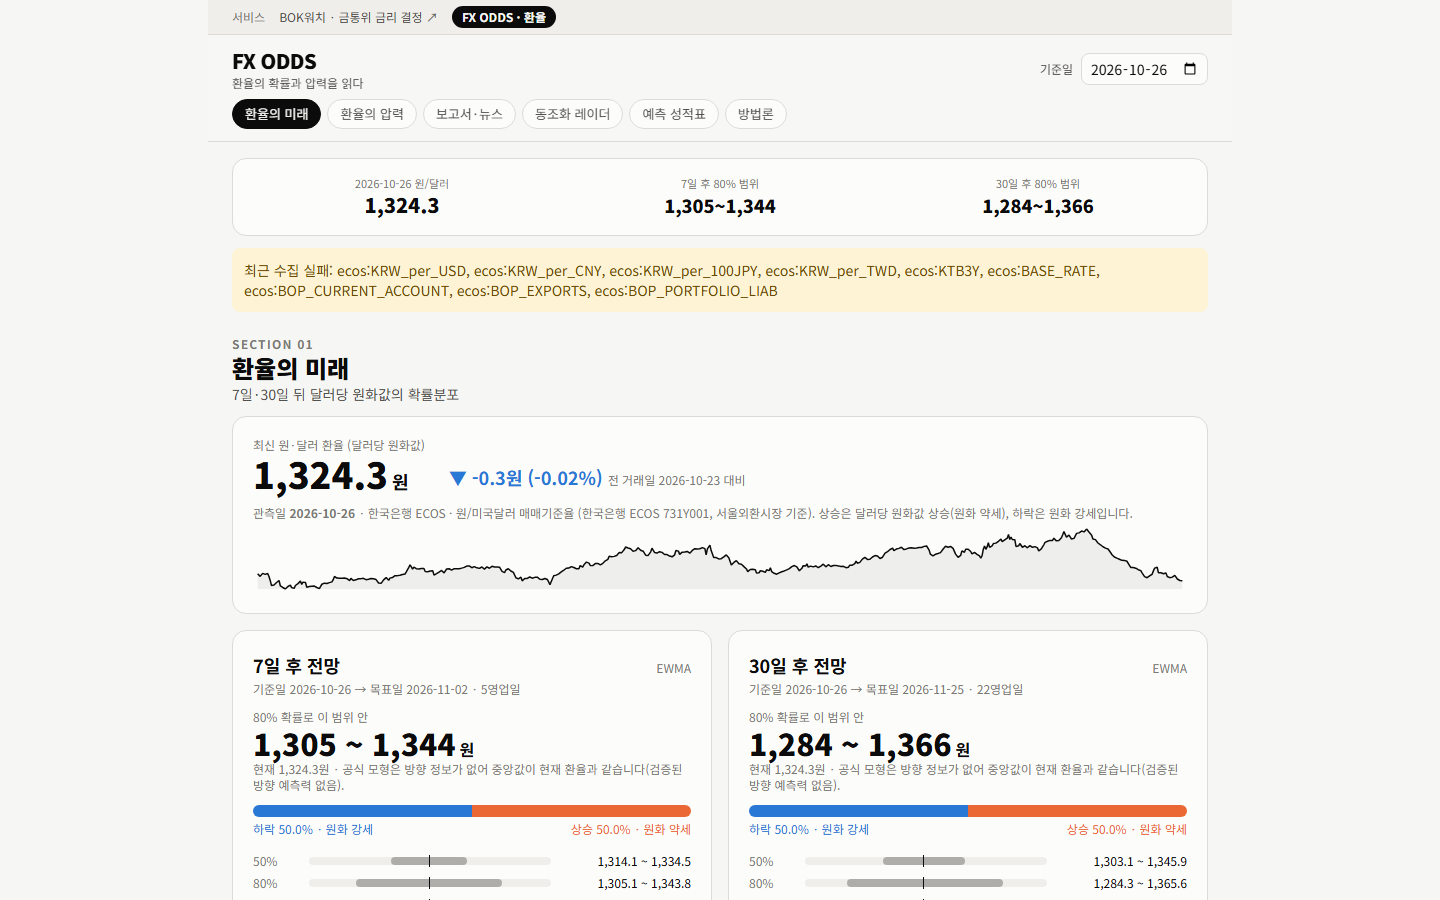
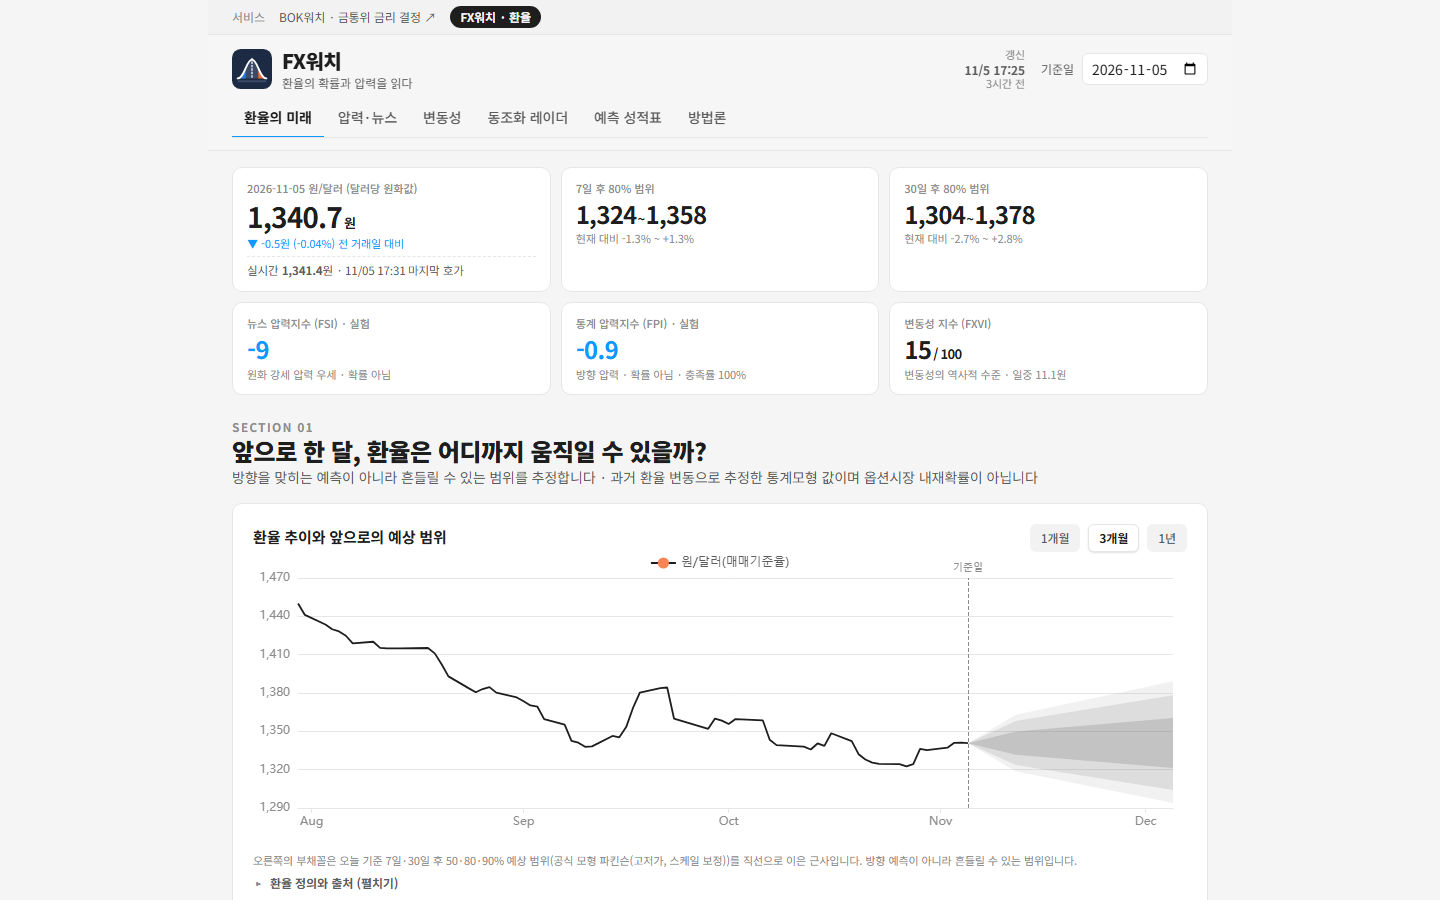
Rename FX ODDS to FX워치 and sync detail page with v0.3.0
Card, detail page, markdown, link previews and cross-links use the new
name; features updated (volatility index FXVI, news/statistical pressure
indices, 7-day EWMA / 30-day Parkinson official models); screenshot refreshed.

diff --git a/projects/fx-odds/index.html b/projects/fx-odds/index.html
@@ -3,18 +3,18 @@
 <head>
 <meta charset="utf-8">
 <meta name="viewport" content="width=device-width, initial-scale=1">
-<title>FX ODDS — databrew</title>
+<title>FX워치 — databrew</title>
 <meta name="description" content="원/달러 환율의 7일·30일 뒤 확률분포와 압력 요인을 보여 주는 환율 확률 모니터. 방향을 찍지 않고 불확실성의 범위를 보여 줍니다.">
 <link rel="canonical" href="https://raspos.github.io/databrew/projects/fx-odds/">
 <meta property="og:type" content="website">
 <meta property="og:site_name" content="databrew">
 <meta property="og:locale" content="ko_KR">
-<meta property="og:title" content="FX ODDS — databrew">
+<meta property="og:title" content="FX워치 — databrew">
 <meta property="og:description" content="원/달러 환율의 7일·30일 뒤 확률분포와 압력 요인을 보여 주는 환율 확률 모니터. 방향을 찍지 않고 불확실성의 범위를 보여 줍니다.">
 <meta property="og:url" content="https://raspos.github.io/databrew/projects/fx-odds/">
 <meta property="og:image" content="https://raspos.github.io/databrew/shots/fx-odds.png">
 <meta name="twitter:card" content="summary_large_image">
-<meta name="twitter:title" content="FX ODDS — databrew">
+<meta name="twitter:title" content="FX워치 — databrew">
 <meta name="twitter:description" content="원/달러 환율의 7일·30일 뒤 확률분포와 압력 요인을 보여 주는 환율 확률 모니터. 방향을 찍지 않고 불확실성의 범위를 보여 줍니다.">
 <meta name="twitter:image" content="https://raspos.github.io/databrew/shots/fx-odds.png">
 <link rel="preconnect" href="https://fonts.googleapis.com">
@@ -35,7 +35,7 @@
       <span class="badge-cat">경제</span>
       <span class="badge-status public">PUBLIC</span>
     </div>
-    <h1>FX ODDS</h1>
+    <h1>FX워치</h1>
     <p class="tagline">환율의 확률과 압력을 읽다</p>
     <p class="hero-desc">원/달러 환율이 7일·30일 뒤 어느 범위에 있을 확률이 높은지를 확률분포로 보여 주는 환율 모니터. 방향을 단정하지 않고, 모형별 예측구간과 도달 확률로 불확실성을 보여 줍니다.</p>
     <div class="hero-cta">
@@ -46,8 +46,8 @@
 </header>
 
 <div class="hero-shot">
-  <img src="../../shots/fx-odds.png" alt="FX ODDS 메인 화면: 환율의 확률과 압력을 읽다 제목과 원/달러 환율, 7일·30일 후 80% 범위">
-  <p class="shot-cap">FX ODDS 메인 화면 — 원/달러 환율과 7일·30일 후 80% 예측구간. 2026-10-26 캡처.</p>
+  <img src="../../shots/fx-odds.png" alt="FX워치 메인 화면: 환율의 확률과 압력을 읽다 제목과 원/달러 환율, 7일·30일 후 80% 범위">
+  <p class="shot-cap">FX워치 메인 화면 — 원/달러 환율과 7일·30일 후 80% 예측구간. 2026-11-05 캡처.</p>
 </div>
 
 <main class="content">
@@ -57,7 +57,7 @@
     <h2>왜 만들었는가</h2>
     <p>환율 전망 기사는 대개 한두 개의 숫자나 방향으로 끝난다. 하지만 환율에서 확실히 말할 수 있는 것은 방향이 아니라 어느 정도 범위 안에 있을 확률이다.</p>
     <p>BOK워치의 설계 철학을 이어받아, 환율의 불확실성을 확률분포로 보여 주고 어떤 모형이 실제로 더 잘 맞아 왔는지를 성적표로 공개하도록 만들었다.</p>
-    <p class="note">통계적 확률은 과거 자료에서 추정한 값이며 실제 결과를 보장하지 않습니다. 서비스는 네 모형 모두 방향성을 가정하지 않으며 검증된 방향 예측력이 없다고 밝히고 있습니다. 투자 조언이 아닙니다.</p>
+    <p class="note">통계적 확률은 과거 자료에서 추정한 값이며 실제 결과를 보장하지 않습니다. 서비스는 공식 모형이 방향 정보를 담지 않으며 검증된 방향 예측력이 없다고 밝히고 있습니다. 투자 조언이 아닙니다.</p>
   </section>
 
   <section class="section">
@@ -73,12 +73,12 @@
         <p>원하는 환율을 입력하면 만기 시점과 기간 중 돌파 확률을 계산합니다.</p>
       </div>
       <div class="feat-card">
-        <div class="feat-title">모형별 비교</div>
-        <p>랜덤워크, 역사적 변동성, EWMA, 재표본추출 네 모형의 중앙값과 예측구간을 나란히 비교합니다.</p>
+        <div class="feat-title">변동성 지수 (FXVI)</div>
+        <p>환율 변동성이 역사적으로 어느 수준인지 0~100으로 보여 주고, 최근 일중 변동폭을 함께 표시합니다.</p>
       </div>
       <div class="feat-card">
-        <div class="feat-title">환율의 압력</div>
-        <p>환율에 영향을 주는 요인과 보고서·뉴스의 압력을 따로 살핍니다.</p>
+        <div class="feat-title">압력·뉴스</div>
+        <p>뉴스 압력지수(FSI)와 통계 압력지수(FPI)를 실험적으로 보여 줍니다. 방향 압력이며 확률이 아닙니다.</p>
       </div>
       <div class="feat-card">
         <div class="feat-title">동조화 레이더</div>
@@ -104,8 +104,8 @@
         <div class="data-desc">해외 시장 지표. 서비스 화면에 별도 기준일로 표시.</div>
       </div>
       <div class="data-row">
-        <div class="data-src">예측 모형 (공식: EWMA)</div>
-        <div class="data-desc">환율 수익률과 변동성만으로 예측구간을 계산합니다. 평균 CRPS가 가장 낮은 모형을 공식으로 삼고, 정규분포 꼬리가 극단 사건을 과소평가할 수 있음을 밝힙니다.</div>
+        <div class="data-src">예측 모형</div>
+        <div class="data-desc">7일은 EWMA, 30일은 파킨슨(고저가, 스케일 보정) 모형이 공식입니다. 환율 수익률과 변동성만으로 예상 범위를 계산하며 방향 판단은 담지 않습니다.</div>
       </div>
     </div>
     <p class="note" style="margin-top:16px">정성 압력과 통합 전망은 검증 전이라 공식 전망에 반영하지 않습니다. 모형 설명과 검증 결과는 서비스의 방법론·예측 성적표 탭에서 확인할 수 있습니다.</p>
@@ -127,7 +127,7 @@
     <h2>개발 현황</h2>
     <div class="status-box public">
       <span class="status-label">PUBLIC</span>
-      <p>v0.2.0. 자동 갱신되며 서비스 화면에 최종 갱신 시각과 데이터 기준일이 표시됩니다. 일부 지표 수집이 실패하면 화면에 알립니다.</p>
+      <p>v0.3.0. 자동 갱신되며 서비스 화면에 최종 갱신 시각과 데이터 기준일이 표시됩니다. 일부 지표 수집이 실패하면 화면에 알립니다.</p>
     </div>
   </section>
 

diff --git a/index.html b/index.html
@@ -386,15 +386,15 @@ header .today { color: rgba(242,196,160,.6); }
       </div>
     </article>
 
-    <!-- 01-2 FX ODDS -->
+    <!-- 01-2 FX워치 -->
     <article class="card" data-cat="경제" data-type="DATA">
       <a class="card-inner" href="projects/fx-odds/">
-        <div class="shot"><img src="shots/fx-odds.png" alt="FX ODDS 메인 화면: 환율의 확률과 압력을 읽다 제목과 원/달러 환율, 7일·30일 후 80% 범위" loading="lazy"></div>
+        <div class="shot"><img src="shots/fx-odds.png" alt="FX워치 메인 화면: 환율의 확률과 압력을 읽다 제목과 원/달러 환율, 7일·30일 후 80% 범위" loading="lazy"></div>
         <div class="body">
           <div class="top"><span class="stone" aria-hidden="true"></span><span class="access open">공개</span><span class="type-tag data">DATA</span><span class="cat">경제</span></div>
-          <h2>FX ODDS</h2>
+          <h2>FX워치</h2>
           <p class="desc">환율의 확률과 압력을 읽다. 원/달러가 7일·30일 뒤 어느 범위에 있을지 확률분포로 봅니다.</p>
-          <p class="desc2">네 가지 모형의 예측구간과 특정 환율 도달 확률, 모형 성적표까지 공개합니다.</p>
+          <p class="desc2">7일·30일 예상 범위와 특정 환율 도달 확률, 변동성 지수, 모형 성적표까지 공개합니다.</p>
         </div>
       </a>
       <div class="card-actions">

diff --git a/projects/lee-x-tracker/index.html b/projects/lee-x-tracker/index.html
@@ -167,7 +167,7 @@
     <div class="other-grid">
       <a class="other-card" href="../fx-odds/">
         <span class="other-type data">DATA</span>
-        <strong>FX ODDS</strong>
+        <strong>FX워치</strong>
         <span>환율의 확률과 압력을 읽다</span>
       </a>
       <a class="other-card" href="../son-goal-museum/">

diff --git a/content/fx-odds.md b/content/fx-odds.md
@@ -1,6 +1,6 @@
-# FX ODDS — 환율의 확률과 압력을 읽다
+# FX워치 — 환율의 확률과 압력을 읽다
 
-**유형** DATA · **분야** 경제 · **상태** PUBLIC (v0.2.0)
+**유형** DATA · **분야** 경제 · **상태** PUBLIC (v0.3.0)
 **서비스** https://raspos.github.io/fx-odds/
 
 ---
@@ -13,12 +13,12 @@
 
 ## 기능
 
-환율의 미래(50·80·90% 예측구간, 확률분포) · 특정 환율 도달 확률 계산기 · 모형별 비교(랜덤워크·역사적 변동성·EWMA·재표본추출) · 환율의 압력 · 보고서·뉴스 · 동조화 레이더 · 예측 성적표 · 방법론
+환율의 미래(50·80·90% 예측구간, 확률분포) · 특정 환율 도달 확률 계산기 · 압력·뉴스(뉴스 압력지수 FSI·통계 압력지수 FPI, 실험) · 변동성(FXVI) · 동조화 레이더 · 예측 성적표 · 방법론
 
 ---
 
 ## 데이터와 방법
 
-한국은행 ECOS(원/미국달러 매매기준율 731Y001), Yahoo Finance. 공식 모형은 평균 CRPS가 가장 낮은 EWMA. 네 모형 모두 방향성을 가정하지 않으며 검증된 방향 예측력은 없습니다. 정성 압력과 통합 전망은 검증 전이라 반영하지 않습니다.
+한국은행 ECOS(원/미국달러 매매기준율 731Y001), Yahoo Finance. 공식 모형은 7일 EWMA, 30일 파킨슨(고저가, 스케일 보정). 방향 정보를 담지 않으며 검증된 방향 예측력은 없습니다. 정성 압력과 통합 전망은 검증 전이라 반영하지 않습니다.
 
 투자 조언이 아닙니다. 통계적 확률은 과거 자료에서 추정한 값이며 실제 결과를 보장하지 않습니다.
